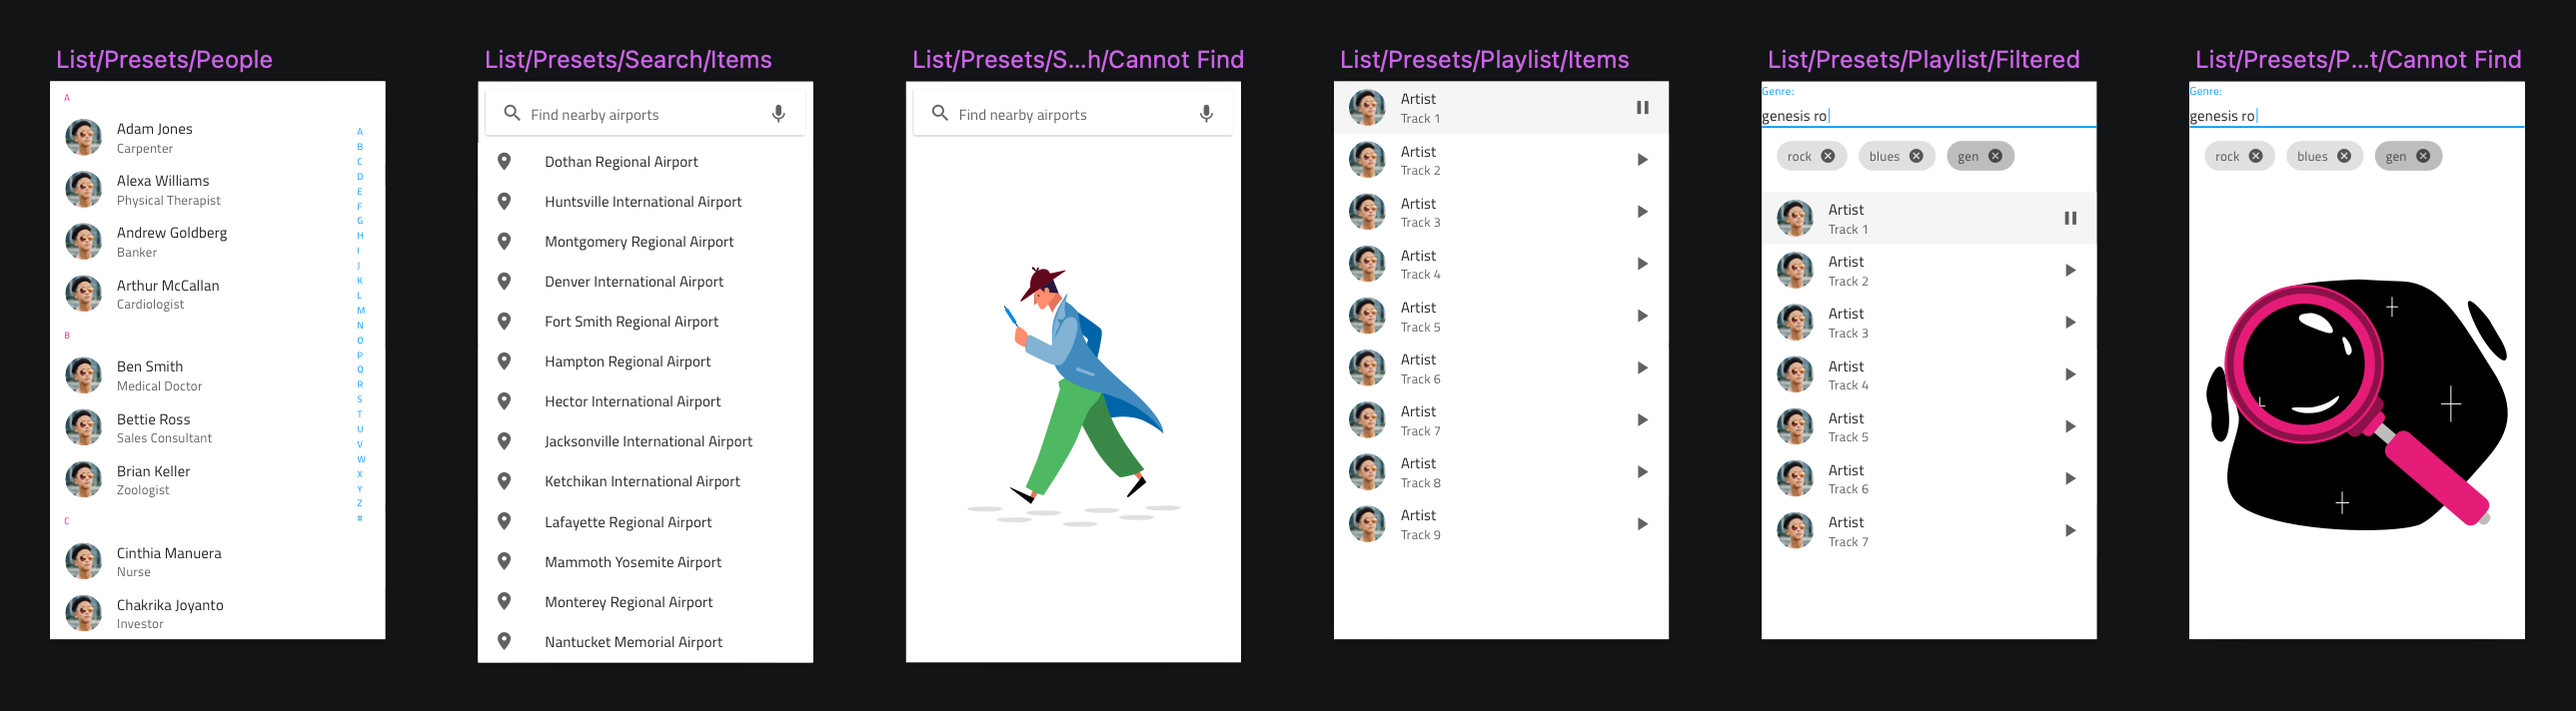
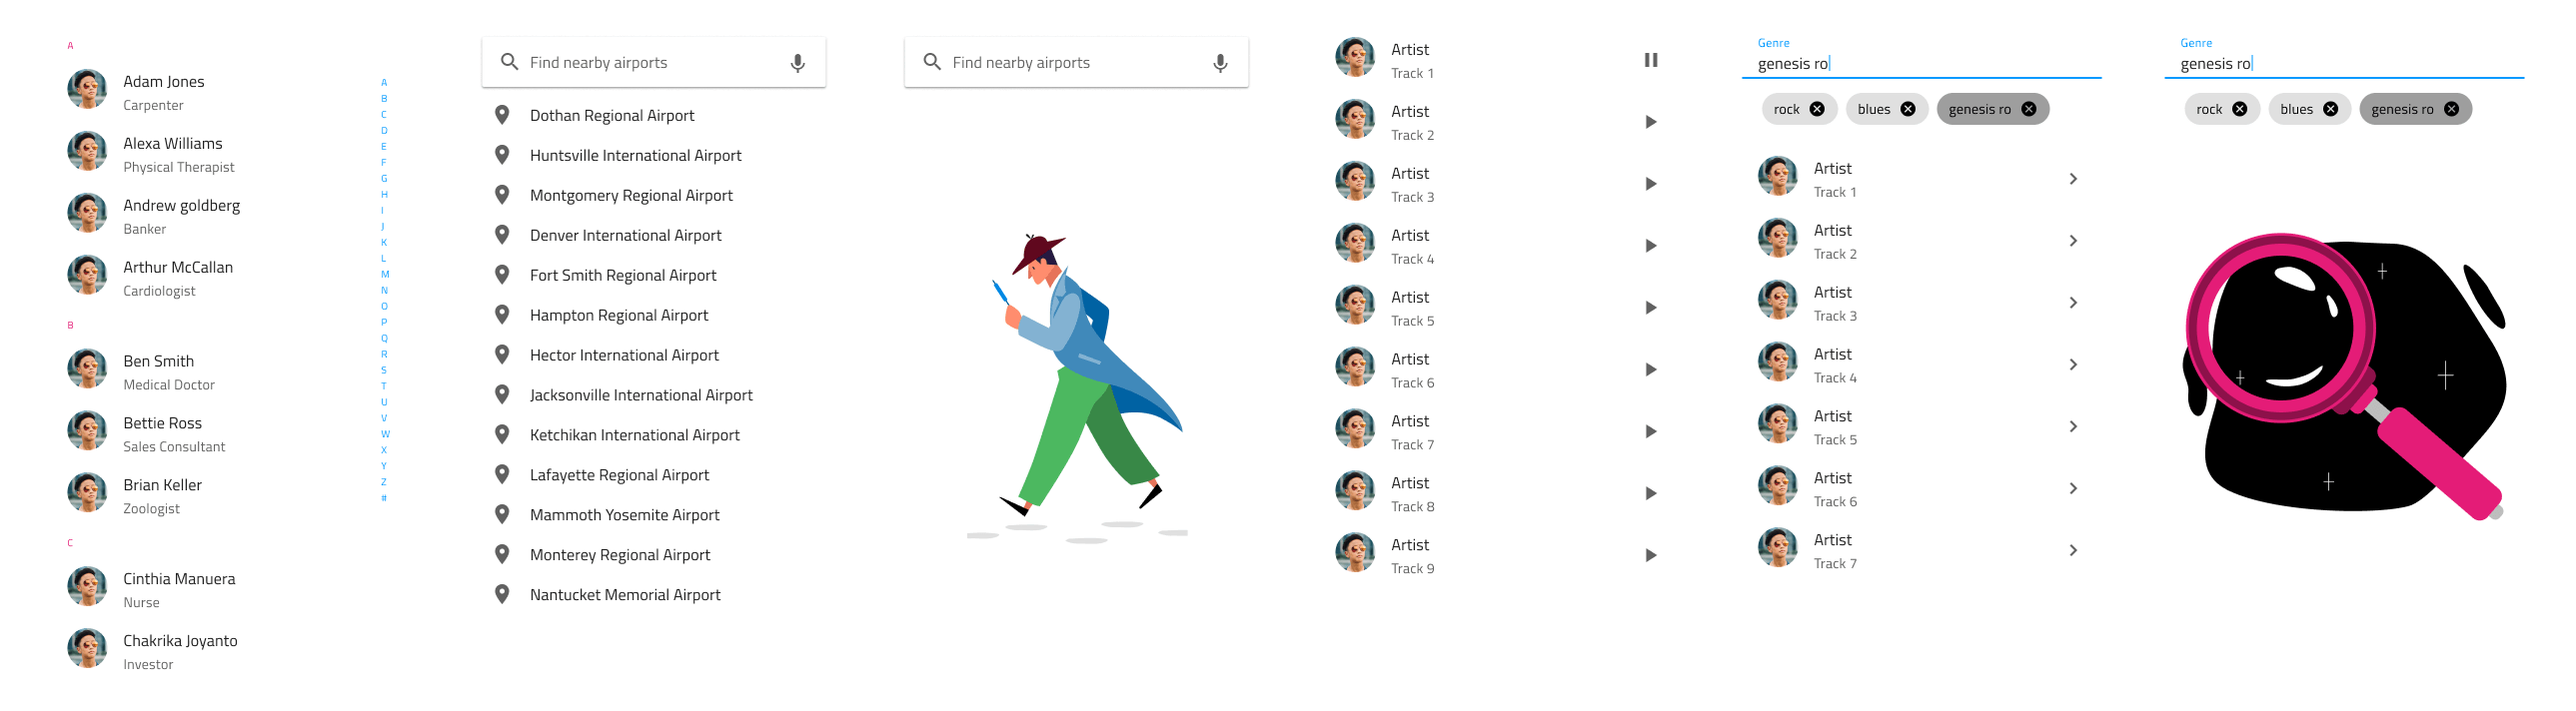
Updated info and images

diff --git a/en/patterns/patterns-overview.md b/en/patterns/patterns-overview.md
@@ -1,12 +1,12 @@
 ---
 title: Patterns Overview - Design System Patterns
 _description: The Indigo Design System contains 180 Patterns built with the Indigo.Design Components.
-_keywords: Design Systems, Design Systems UX, UI kit, Sketch, Ignite UI for Angular, Sketch to Angular, Sketch to Angular, Angular, Angular Design System, Export code from Sketch, Design Kits for Angular, Sketch HTML, Sketch to HTML, Sketch UI kits
+_keywords: Design Systems, Design Systems UX, UI kit, Sketch, Ignite UI for Angular, Sketch to Angular, Sketch to Angular, Angular, Angular Design System, Export code from Sketch, Design Kits for Angular, Sketch HTML, Sketch to HTML, Sketch UI kits, Figma, Figma to Angular, Export code from Figma, Figma HTML, Figma to HTML, Figma UI kits
 ---
 
 # Patterns Overview
 
-The **Indigo.Design System** boosts your productivity with 180+ UI Patterns assembled from Indigo.Design Components. They are enhanced with the same responsive web design behavior and theming capabilities. The UI Patterns can be found spread across separate pages of the library in Sketch, while in Adobe XD they are arranged as a column at the right end of the library file:
+The **Indigo.Design System** boosts your productivity with 180+ UI Patterns assembled from Indigo.Design Components. They are enhanced with the same responsive web design behavior and theming capabilities. The UI Patterns can be found spread across separate pages of the library in Figma and Sketch, while in Adobe XD they are arranged as a column at the right end of the library file:
 
 - 🌆 AV Player
 - 🌆 Avatar + Badge
@@ -30,15 +30,13 @@ The **Indigo.Design System** boosts your productivity with 180+ UI Patterns asse
 - 🌆 User Profile
 
 > [!WARNING]
-> Unlike a component, some patterns in the Sketch library can be detached to show as a group, preserving the look and feel you have defined before that. However, in Adobe XD ungrouping a pattern has devastating implications on the ability to generate code from the resulting layout as it turns all nested components into groups and prevents us from tracing their structure correctly. You can make any state, layout, and styling adjustment in Adobe XD without ungrouping a pattern so we kindly advise you to keep the entirety of these patterns on your artboards. Also bear in mind that in Figma, Sketch and Adobe XD, unlinking a pattern from the library makes it impossible to apply updates from subsequent versions of the Design System automatically.
+> Unlike a component, some patterns in the Figma and the Sketch libraries can be detached to show as a group, preserving the look and feel you have defined before that. However, in Adobe XD ungrouping a pattern has devastating implications on the ability to generate code from the resulting layout as it turns all nested components into groups and prevents us from tracing their structure correctly. You can make any state, layout, and styling adjustment in Adobe XD without ungrouping a pattern so we kindly advise you to keep the entirety of these patterns on your artboards. Also bear in mind that in Figma, Sketch and Adobe XD, unlinking a pattern from the library makes it impossible to apply updates from subsequent versions of the Design System automatically.
 
  Below is a snippet of some of the [list patterns](lists.md) such as a contacts list, searchable and filterable lists, and list empty states when no matching results are found.
 
-<img class="responsive-img" src="../images/patterns_overview.png" />
+<img class="responsive-img" src="../images/patterns_overview.png" srcset="../images/patterns_overview@2x.png 2x" />
 
-
-
-We constantly improve our patterns by adding new ones. To identify changes more easily from one release of the **Indigo.Design System** to the next, you will notice that we append a 🆕 emoji to the Sketch pages and Adobe XD artboards containing updates. You may also create your own Patterns from interface layouts that you use over and over again in your designs, extending our default set and giving your design productivity a further boost.
+We constantly improve our patterns by adding new ones or by upgrading their structure. You may also create your own Patterns from interface layouts that you use over and over again in your designs, extending our default set and giving your design productivity a further boost. 
 
 ## Additional Resources
 
